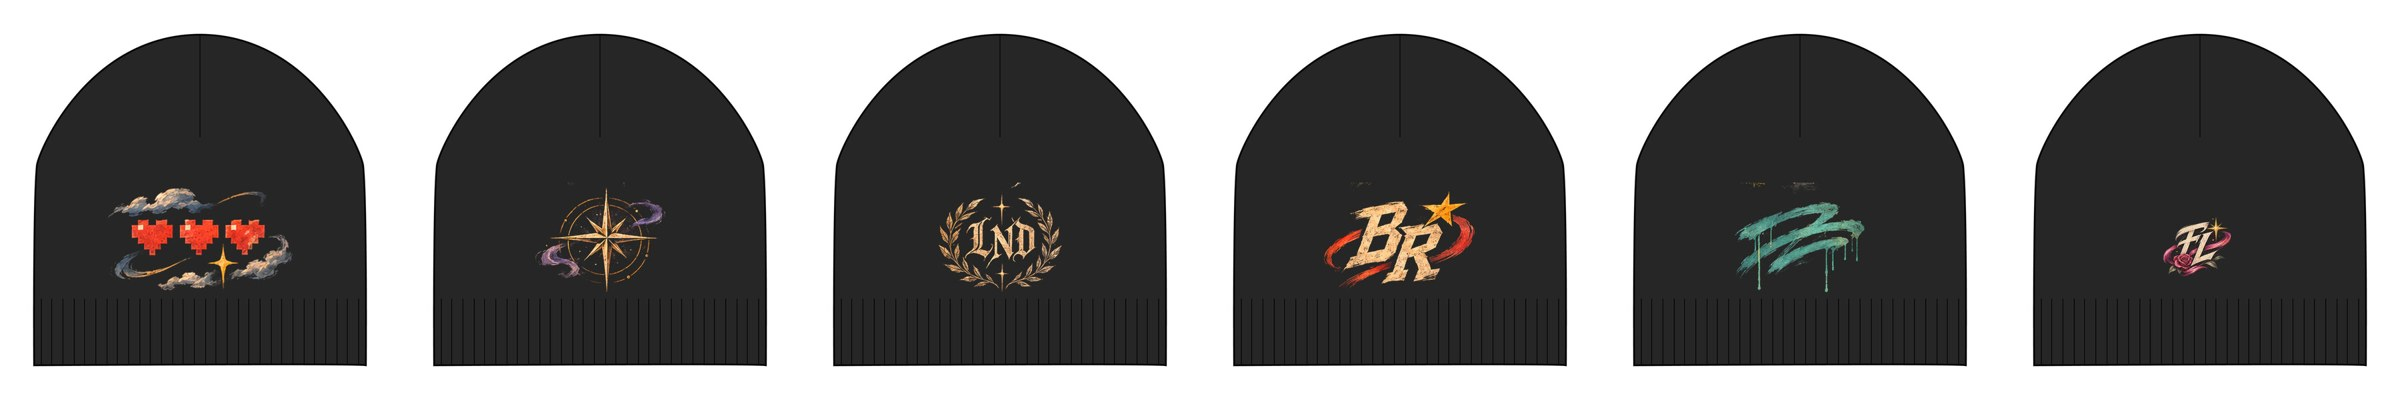
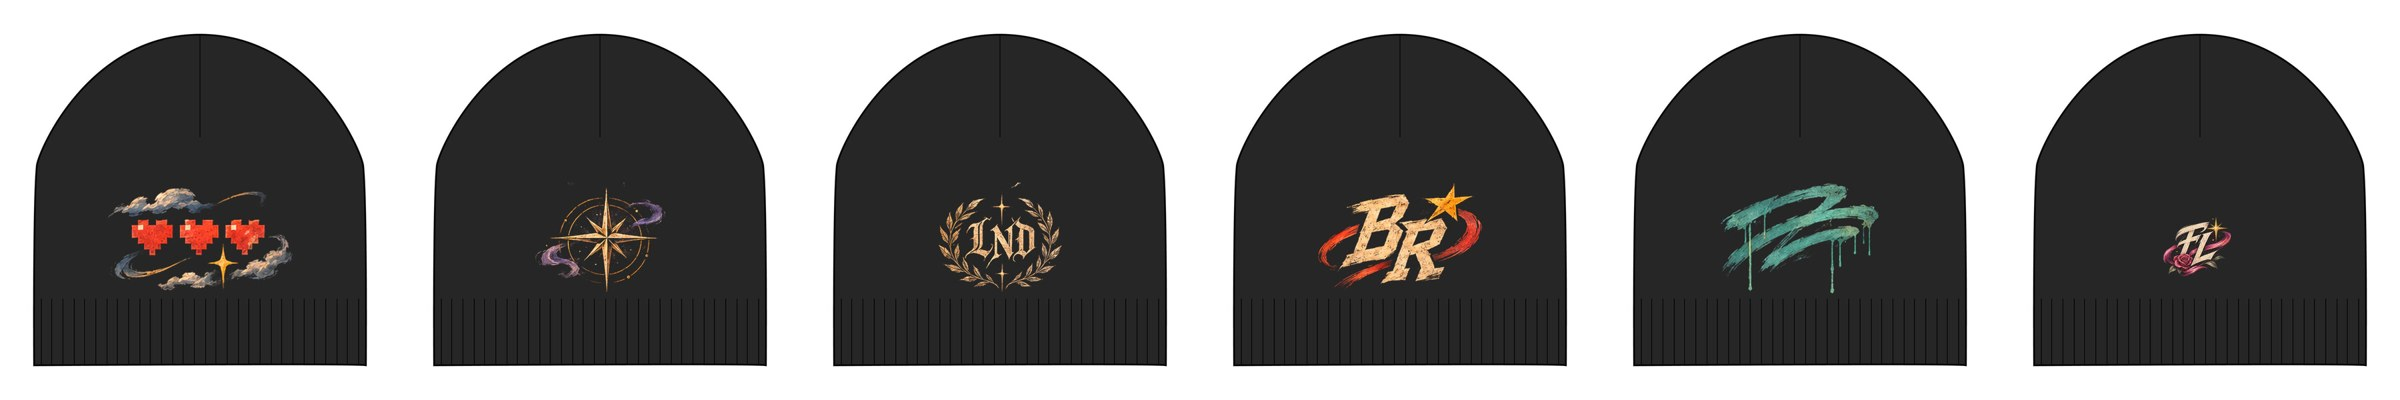
Notes and preview: painted beanies
Claude-Session: https://claude.ai/code/session_01T2BjBwV7d2vTxpMeBzrFvG

Changed region(s): [[0.5312, 0.48, 0.625, 0.72], [0.7188, 0.45, 0.7812, 0.69]]

diff --git a/STORE_NOTES.md b/STORE_NOTES.md
@@ -383,6 +383,14 @@ Monster of the Week (held: resembles a trademarked character).
   the order of the variants' featured photos), then back / worn front / worn back per colour in that same order.
   Alts "<Title> in <Colour>, front|back|worn, front|worn, back" set via fileUpdate; the Black front moved to first
   (productReorderMedia) so cards show Black. Variant photos link correctly as imported.
+- Painted beanies (2026-11-20, owner: "incorporate our actual designs"): "<Name> Painted Beanie" x6, the painted
+  emblems unsimplified, DTF-printed on Port Authority C939 100% Cotton Beanie (bp 5254 / pp 99, front_dtf 1500x900,
+  no cuff), Black/Graphite/Navy only, $27, cost $11.17, US ship $5.09. Sold ALONGSIDE the embroidered beanies (owner's
+  call). printify/create_painted_beanies.py; art from designs/pants-2026/print/<slug>-subtle.png (the trimmed files:
+  the raw ones have paint flecks that showed on Born Ready + Urban, fixed by an images-only republish). 3 flat
+  mockups each (import order Graphite, Black, Navy); alts "<Title> in <Colour>, front", Black moved first. Printify
+  sometimes doesn't link variant photos on first import: link with productVariantAppendMedia. Other printed beanie:
+  none (all other Printify beanies are embroidery-only; AS Colour 5385 'front' is embroidery too).
 - Koozie options in Printify (checked 2026-11-18, cost before shipping; US shipping first item):
   Can Cooler bp951 (Pic The Gift, regular + slim, edge-to-edge print) $4.99, ship $5.59;
   Can Cooler Sleeve bp636 (neoprene, front+back) $7.92, ship $5.59; Slim Can Cooler bp808 $9.28, ship $5.89;
